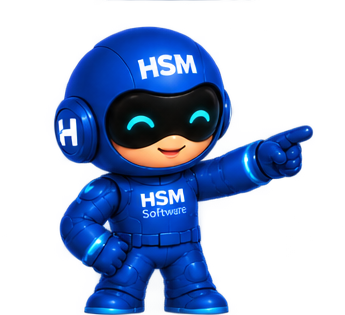
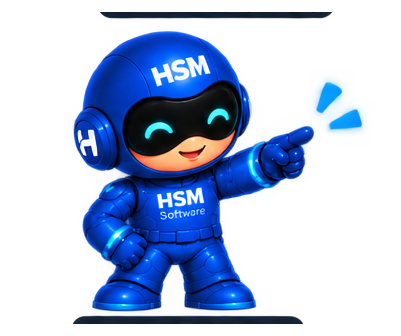
Update H.Solutions mascot images and enhance interaction features

diff --git a/js/hsm-mascot.js b/js/hsm-mascot.js
@@ -15,7 +15,7 @@
 //
 // Motion phases (authoritative):  FREE → APPROACHING → LANDING → DOCKED → TAKEOFF
 // Visual states (derived):        hidden, intro, idle, flying-left/right, wave,
-//                                 pointing, thinking, excited, love, surprised,
+//                                 pointing, thinking, excited, idea, surprised,
 //                                 landing, docked, takeoff
 (function () {
   'use strict';
@@ -30,22 +30,23 @@
   // single k = size / REF_H maps all of them. ax/ay is the visor centre (the
   // point the controller moves), feet is the lowest row of the character, and
   // crop trims sheet artefacts baked into some exports (label pills, slivers of
-  // neighbouring poses) — the files themselves are untouched.
+  // neighbouring poses) and cw is the visible character width where the canvas
+  // is much wider — the files themselves are untouched.
   // ---------------------------------------------------------------------------
-  var REF_H = 320; // idle character height in source px
+  var REF_H = 297; // idle character height in source px
   var POSES = {
-    idle:        { file: 'hsm-mascot-idle.png',         w: 230, h: 340, ax: 133, ay: 122, feet: 336 },
-    flyingRight: { file: 'hsm-mascot-flying-right.png', w: 385, h: 340, ax: 261, ay: 151, feet: 294, crop: [0, 0, 40, 0] },
-    flyingLeft:  { file: 'hsm-mascot-flying-left.png',  w: 380, h: 340, ax: 150, ay: 150, feet: 340, crop: [0, 0, 0, 8] },
-    landing:     { file: 'hsm-mascot-landing.png',      w: 250, h: 340, ax: 137, ay: 196, feet: 338, crop: [0, 0, 0, 12] },
-    docked:      { file: 'hsm-mascot-docked.png',       w: 321, h: 340, ax: 134, ay: 119, feet: 335, crop: [0, 0, 0, 14] },
-    wave:        { file: 'hsm-mascot-wave.png',         w: 260, h: 315, ax: 155, ay: 129, feet: 315, crop: [12, 0, 0, 0] },
-    pointing:    { file: 'hsm-mascot-pointing.png',     w: 345, h: 315, ax: 160, ay: 127, feet: 315, crop: [4, 0, 0, 0] },
-    thinking:    { file: 'hsm-mascot-thinking.png',     w: 270, h: 315, ax: 131, ay: 140, feet: 315 },
-    excited:     { file: 'hsm-mascot-excited.png',      w: 330, h: 315, ax: 180, ay: 125, feet: 313, crop: [12, 0, 0, 0] },
-    love:        { file: 'hsm-mascot-love.png',         w: 331, h: 315, ax: 183, ay: 128, feet: 315, crop: [12, 0, 0, 0] },
-    surprised:   { file: 'hsm-mascot-surprised.png',    w: 305, h: 310, ax: 192, ay: 132, feet: 280, crop: [28, 0, 29, 0] },
-    back:        { file: 'hsm-mascot-back.png',         w: 395, h: 310, ax: 196, ay: 157, feet: 282, crop: [28, 0, 28, 0] }
+    idle:        { file: 'hsm-mascot-idle.png',         w: 408, h: 335, ax: 193, ay: 130, feet: 322, cw: 199, crop: [0, 118, 0, 0] },
+    flyingRight: { file: 'hsm-mascot-flying-right.png', w: 400, h: 334, ax: 210, ay: 134, feet: 303 },
+    flyingLeft:  { file: 'hsm-mascot-flying-left.png',  w: 393, h: 335, ax: 167, ay: 139, feet: 316 },
+    landing:     { file: 'hsm-mascot-landing.png',      w: 396, h: 335, ax: 231, ay: 154, feet: 322 },
+    docked:      { file: 'hsm-mascot-docked.png',       w: 354, h: 336, ax: 125, ay: 135, feet: 310, crop: [26, 0, 24, 0] },
+    wave:        { file: 'hsm-mascot-wave.png',         w: 407, h: 336, ax: 220, ay: 136, feet: 310, crop: [26, 0, 24, 0] },
+    pointing:    { file: 'hsm-mascot-pointing.png',     w: 401, h: 336, ax: 183, ay: 135, feet: 311, crop: [26, 0, 23, 0] },
+    thinking:    { file: 'hsm-mascot-thinking.png',     w: 389, h: 336, ax: 213, ay: 145, feet: 310, crop: [26, 0, 24, 0] },
+    excited:     { file: 'hsm-mascot-excited.png',      w: 383, h: 335, ax: 184, ay: 137, feet: 288, crop: [0, 0, 43, 0] },
+    idea:        { file: 'hsm-mascot-idea.png',         w: 395, h: 335, ax: 206, ay: 150, feet: 294, crop: [0, 0, 39, 0] },
+    surprised:   { file: 'hsm-mascot-surprised.png',    w: 353, h: 335, ax: 139, ay: 150, feet: 290, crop: [0, 0, 41, 0] },
+    back:        { file: 'hsm-mascot-back.png',         w: 389, h: 335, ax: 199, ay: 150, feet: 289, crop: [0, 0, 41, 0] }
   };
   // The experience starts once these five are decoded; the rest load after.
   var ESSENTIAL = ['idle', 'flyingRight', 'flyingLeft', 'landing', 'docked'];
@@ -70,7 +71,7 @@
   var DOCK_SNAP = 2.5;         // px: close enough to count as landed
   var TAKEOFF_MS = 340, TAKEOFF_LIFT = 0.55;
   var INTRO_MS = 1500, CONTEXT_DELAY = 1200, CONTEXT_MS = 2200;
-  var HOVER_DELAY = 260, HOVER_MS = 1800, HOVER_COOLDOWN = 6000;
+  var HOVER_DELAY = 260, HOVER_MS = 1800, HOVER_COOLDOWN = 6000, IDEA_COOLDOWN = 12000;
   var REACT_MS = 2600;
   var NAV_H = 64;
   var TAU = Math.PI * 2;
@@ -83,10 +84,10 @@
   var PLAN = [
     { id: 'hero-section',   side: 'right', y: 0.27, yNarrow: 0.5, pose: null },
     { id: 'about',          side: 'left',  y: 0.50, pose: 'wave' },
-    { id: 'skills',         side: 'right', y: 0.42, pose: 'thinking' },
+    { id: 'skills',         side: 'right', y: 0.42, pose: 'idea' },
     { id: 'experience',     side: 'right', y: 0.58, pose: null },
     { id: 'projects',       side: 'left',  y: 0.40, pose: 'pointing' },
-    { id: 'certifications', side: 'right', y: 0.46, pose: null },
+    { id: 'certifications', side: 'right', y: 0.46, pose: 'thinking' },
     { id: 'contact',        side: 'dock',  y: 0.55, pose: null },
     { id: 'all-projects',   side: 'right', y: 0.30, pose: 'pointing' },
     { id: 'project-root',   side: 'right', y: 0.30, pose: null }
@@ -94,6 +95,7 @@
   var CONTENT_W = 1280; // .sec-wrap / #hero max-width: the margins beside it are safe
   var DOCK_SELECTOR = '#ct-form-submit';
   var PROJECT_HOVER = '.proj-card, .proj-x-card';
+  var SKILL_HOVER = '.skill-card';
   var TEXT_FIELDS = 'input, textarea, select, [contenteditable]';
 
   // ---------------------------------------------------------------------------
@@ -163,7 +165,7 @@
   var liftX = 0, liftY = 0;           // where the takeoff hop aims
 
   var pointer = { x: 0, y: 0, active: false };
-  var hover = { ctx: null, since: 0, lastPointAt: -1e9 };
+  var hover = { ctx: null, since: 0, lastPointAt: -1e9, lastIdeaAt: -1e9 };
   var played = {};                    // contextual poses already shown per section
   var lastTf = '', lastGlowTf = '', lastGlowA = -1, lastTrailTf = '', lastTrailA = -1;
 
@@ -171,7 +173,7 @@
   function decay(ease, kf) { return 1 - Math.pow(1 - ease, kf); }
   function smooth(t) { return t * t * (3 - 2 * t); }
   function feetDy(name) { var p = POSES[name] || POSES.idle; return (p.feet - p.ay) * k; }
-  function charW(name) { var p = POSES[name] || POSES.idle; return p.w * k; }
+  function charW(name) { var p = POSES[name] || POSES.idle; return (p.cw || p.w) * k; }
 
   // ---------------------------------------------------------------------------
   // Measurement — cached; refreshed on resize / orientation / layout changes
@@ -395,6 +397,9 @@
       if (fine.matches && hover.ctx === 'project' && now - hover.since > HOVER_DELAY &&
           now - hover.lastPointAt > HOVER_COOLDOWN) {
         if (play('pointing', HOVER_MS, true, false, now)) hover.lastPointAt = now;
+      } else if (fine.matches && hover.ctx === 'skill' && now - hover.since > HOVER_DELAY &&
+          now - hover.lastIdeaAt > IDEA_COOLDOWN) {
+        if (play('idea', HOVER_MS, true, false, now)) hover.lastIdeaAt = now;
       } else if (sec.pose && !played[sec.id]) {
         played[sec.id] = true;
         play(sec.pose, CONTEXT_MS, true, false, now);
@@ -466,12 +471,12 @@
   document.documentElement.addEventListener('mouseleave', pointerGone);
   window.addEventListener('blur', pointerGone);
 
-  // Hover context (desktop): project cards invite a point; text fields make the
-  // character step back so it never covers what's being typed.
+  // Hover context (desktop): project cards invite a point, skill cards an idea;
+  // text fields make the character step back so it never covers what's typed.
   document.addEventListener('pointerover', function (e) {
     var t = e.target;
     if (!t || !t.closest) return;
-    var ctx = t.closest(PROJECT_HOVER) ? 'project' : t.closest(TEXT_FIELDS) ? 'text' : null;
+    var ctx = t.closest(PROJECT_HOVER) ? 'project' : t.closest(SKILL_HOVER) ? 'skill' : t.closest(TEXT_FIELDS) ? 'text' : null;
     if (ctx !== hover.ctx) { hover.ctx = ctx; hover.since = performance.now(); }
     if (fine.matches) root.classList.toggle('is-quiet', ctx === 'text' || focusedField);
   }, { passive: true });
@@ -490,7 +495,7 @@
   if (status && window.MutationObserver) {
     new MutationObserver(function () {
       var now = performance.now();
-      if (status.classList.contains('ok')) play('love', REACT_MS, false, true, now);
+      if (status.classList.contains('ok')) play('excited', REACT_MS, false, true, now);
       else if (status.classList.contains('err')) play('surprised', REACT_MS, false, true, now);
     }).observe(status, { attributes: true, attributeFilter: ['class'] });
   }
